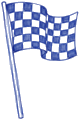
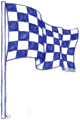
chore: cleanup assets and simplify grade display
- Simplify LandingGrade to 1s display with fade
- Fix ToastQueue exhaustive-deps warning
- Remove unused sprite sheet files
- Update ring and flag assets

diff --git a/src/components/LandingGrade.tsx b/src/components/LandingGrade.tsx
@@ -1,15 +1,11 @@
 /**
  * Landing Grade Display
  *
- * Shows grade stamp animation with:
- * - Scale slam effect (0 → 1.2 → 1.0)
- * - Grade letter with color
- * - Coach comment
- * - Confetti for S/A grades
+ * Shows grade for 1 second, then fades out
  */
 
-import React, { useEffect, useState } from 'react';
-import { Grade, GradeResult, GRADE_COLORS, shouldShowConfetti, getRandomTip } from '@/game/engine/gradeSystem';
+import React, { useEffect, useState, useMemo } from 'react';
+import { GradeResult, GRADE_COLORS, shouldShowConfetti, getRandomTip } from '@/game/engine/gradeSystem';
 
 interface LandingGradeProps {
   result: GradeResult | null;
@@ -18,80 +14,58 @@ interface LandingGradeProps {
 }
 
 export function LandingGrade({ result, visible, onDismiss }: LandingGradeProps) {
-  const [animationPhase, setAnimationPhase] = useState<'slam' | 'hold' | 'fade'>('slam');
-  const [scale, setScale] = useState(0);
+  const [fading, setFading] = useState(false);
+
+  // Memoize tip so it doesn't change on every render (must be before early return)
+  const showTip = result && (result.grade === 'C' || result.grade === 'D');
+  const tip = useMemo(() => showTip ? getRandomTip() : null, [showTip]);
 
   useEffect(() => {
     if (!visible || !result) {
-      setAnimationPhase('slam');
-      setScale(0);
+      setFading(false);
       return;
     }
 
-    // Slam animation: 0 → 1.2 → 1.0
-    setAnimationPhase('slam');
-    setScale(0);
+    // Start fade out after 800ms
+    const fadeTimer = setTimeout(() => setFading(true), 800);
 
-    // Start slam
-    const slamStart = setTimeout(() => setScale(1.2), 50);
-
-    // Settle to 1.0
-    const settle = setTimeout(() => {
-      setScale(1.0);
-      setAnimationPhase('hold');
-    }, 200);
-
-    // Start fade after 1.5s
-    const fadeStart = setTimeout(() => {
-      setAnimationPhase('fade');
-    }, 1500);
-
-    // Dismiss after 2s
-    const dismiss = setTimeout(() => {
+    // Dismiss after 1000ms total
+    const dismissTimer = setTimeout(() => {
       onDismiss?.();
-    }, 2000);
+    }, 1000);
 
     return () => {
-      clearTimeout(slamStart);
-      clearTimeout(settle);
-      clearTimeout(fadeStart);
-      clearTimeout(dismiss);
+      clearTimeout(fadeTimer);
+      clearTimeout(dismissTimer);
     };
   }, [visible, result, onDismiss]);
 
   if (!visible || !result) return null;
 
-  const { grade, comment, score } = result;
+  const { grade, comment } = result;
   const color = GRADE_COLORS[grade];
-  const showTip = grade === 'C' || grade === 'D';
 
   return (
     <div
-      className={`
-        fixed inset-0 flex items-center justify-center pointer-events-none
-        transition-opacity duration-300
-        ${animationPhase === 'fade' ? 'opacity-0' : 'opacity-100'}
-      `}
+      className="fixed inset-0 flex items-center justify-center pointer-events-none"
+      style={{
+        opacity: fading ? 0 : 1,
+        transition: 'opacity 200ms ease-out',
+      }}
     >
       {/* Confetti for S/A */}
-      {shouldShowConfetti(grade) && animationPhase !== 'fade' && (
+      {shouldShowConfetti(grade) && !fading && (
         <Confetti />
       )}
 
-      {/* Grade stamp */}
-      <div
-        className="relative"
-        style={{
-          transform: `scale(${scale})`,
-          transition: 'transform 150ms ease-out',
-        }}
-      >
+      {/* Grade display */}
+      <div className="relative text-center">
         {/* Grade letter */}
         <div
-          className="text-8xl font-black text-center"
+          className="text-4xl font-black"
           style={{
             color,
-            textShadow: `0 4px 8px rgba(0,0,0,0.5), 0 0 20px ${color}40`,
+            textShadow: `0 2px 4px rgba(0,0,0,0.5), 0 0 12px ${color}40`,
           }}
         >
           {grade}
@@ -99,21 +73,16 @@ export function LandingGrade({ result, visible, onDismiss }: LandingGradeProps) 
 
         {/* Comment */}
         <div
-          className="text-xl font-bold text-center mt-2"
+          className="text-base font-bold mt-1"
           style={{ color }}
         >
           {comment}
         </div>
 
-        {/* Score breakdown */}
-        <div className="text-sm text-white/60 text-center mt-1">
-          Score: {score}/100
-        </div>
-
         {/* Tip for C/D grades */}
-        {showTip && (
-          <div className="text-xs text-yellow-400 text-center mt-3 max-w-48">
-            {getRandomTip()}
+        {tip && (
+          <div className="text-xs text-yellow-400 mt-2 max-w-48 mx-auto">
+            {tip}
           </div>
         )}
       </div>

diff --git a/src/components/ToastQueue.tsx b/src/components/ToastQueue.tsx
@@ -64,7 +64,8 @@ function ToastItem({ toast, index, onDismiss }: ToastItemProps) {
   useEffect(() => {
     const timer = setTimeout(onDismiss, toast.duration);
     return () => clearTimeout(timer);
-  }, [toast.duration, onDismiss]);
+    // eslint-disable-next-line react-hooks/exhaustive-deps
+  }, [toast.id, toast.duration]); // Only depend on toast identity, not onDismiss callback
 
   return (
     <div
